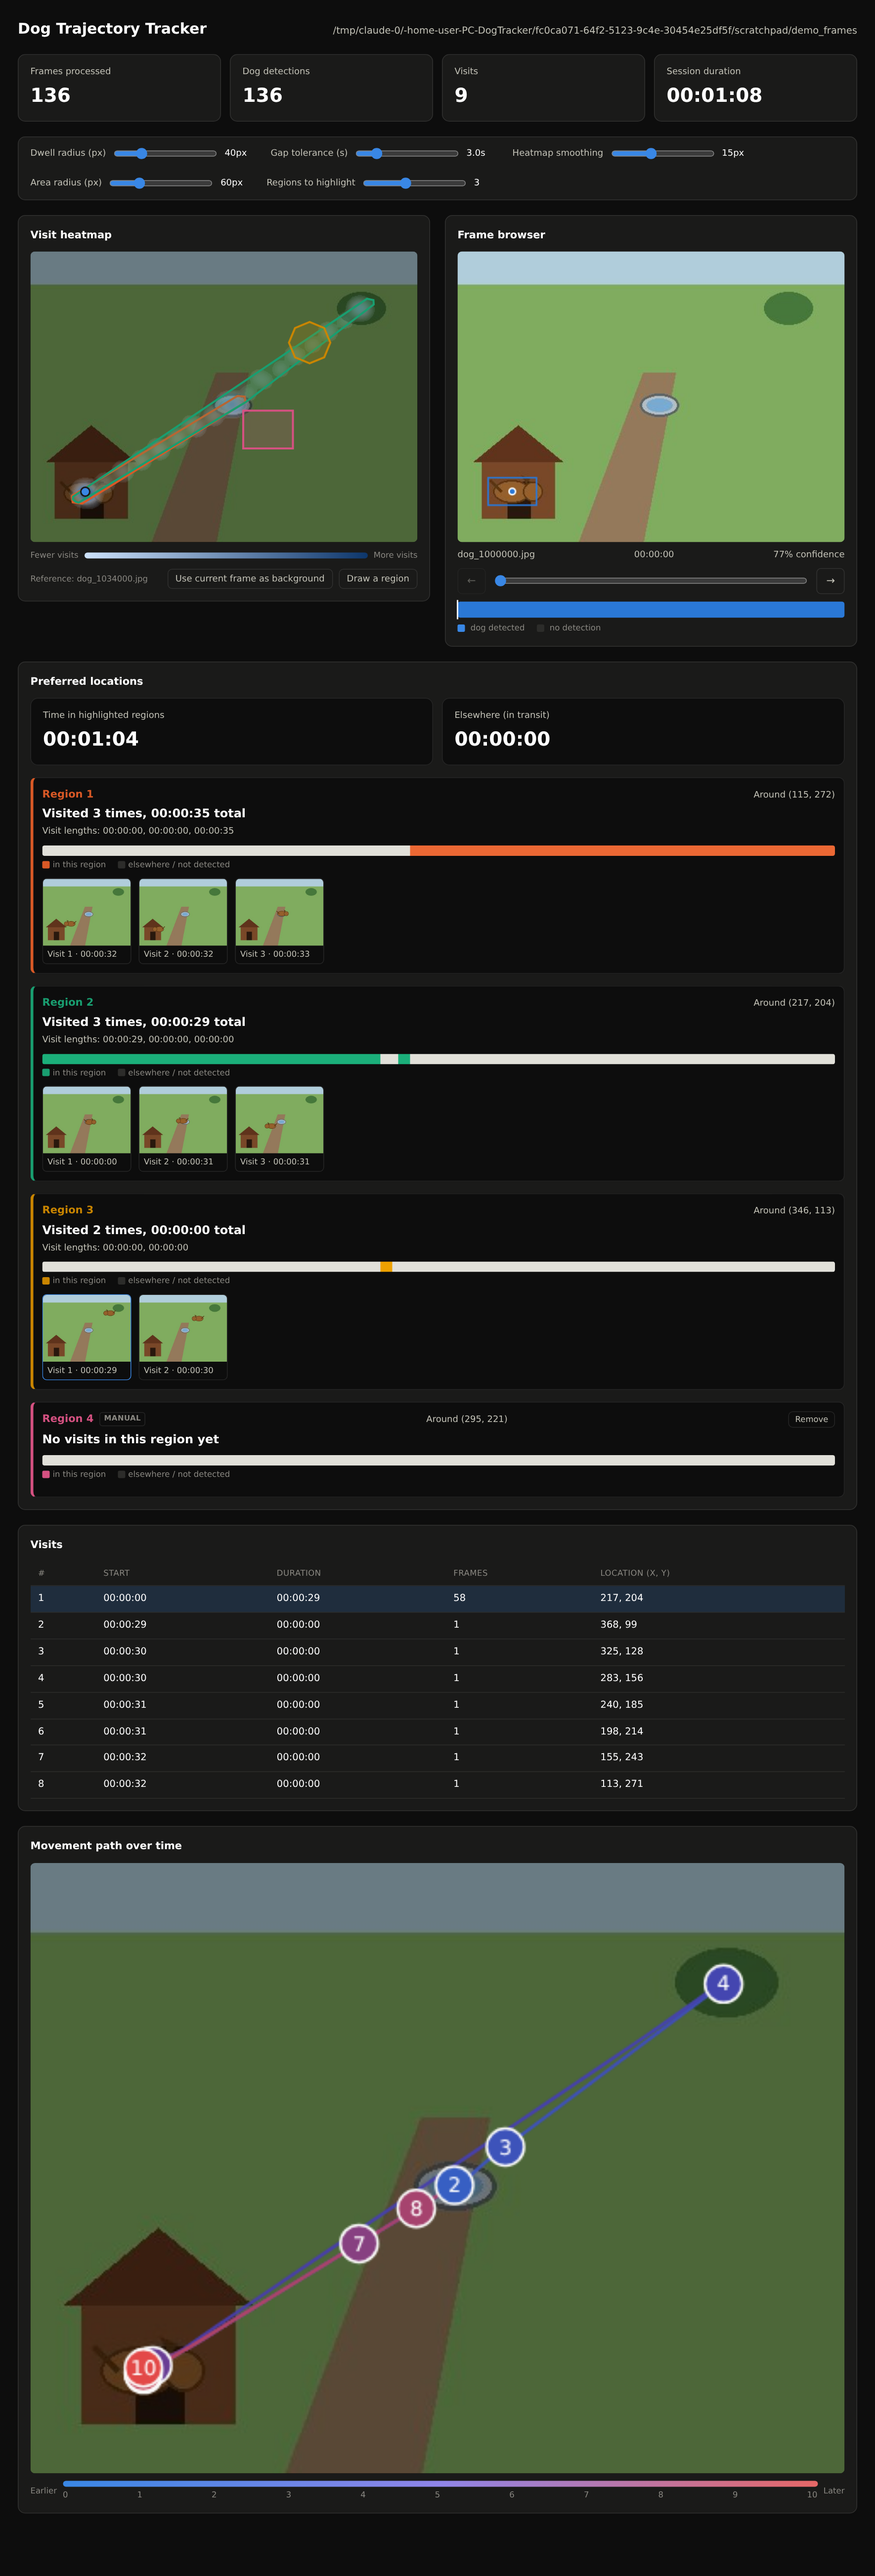
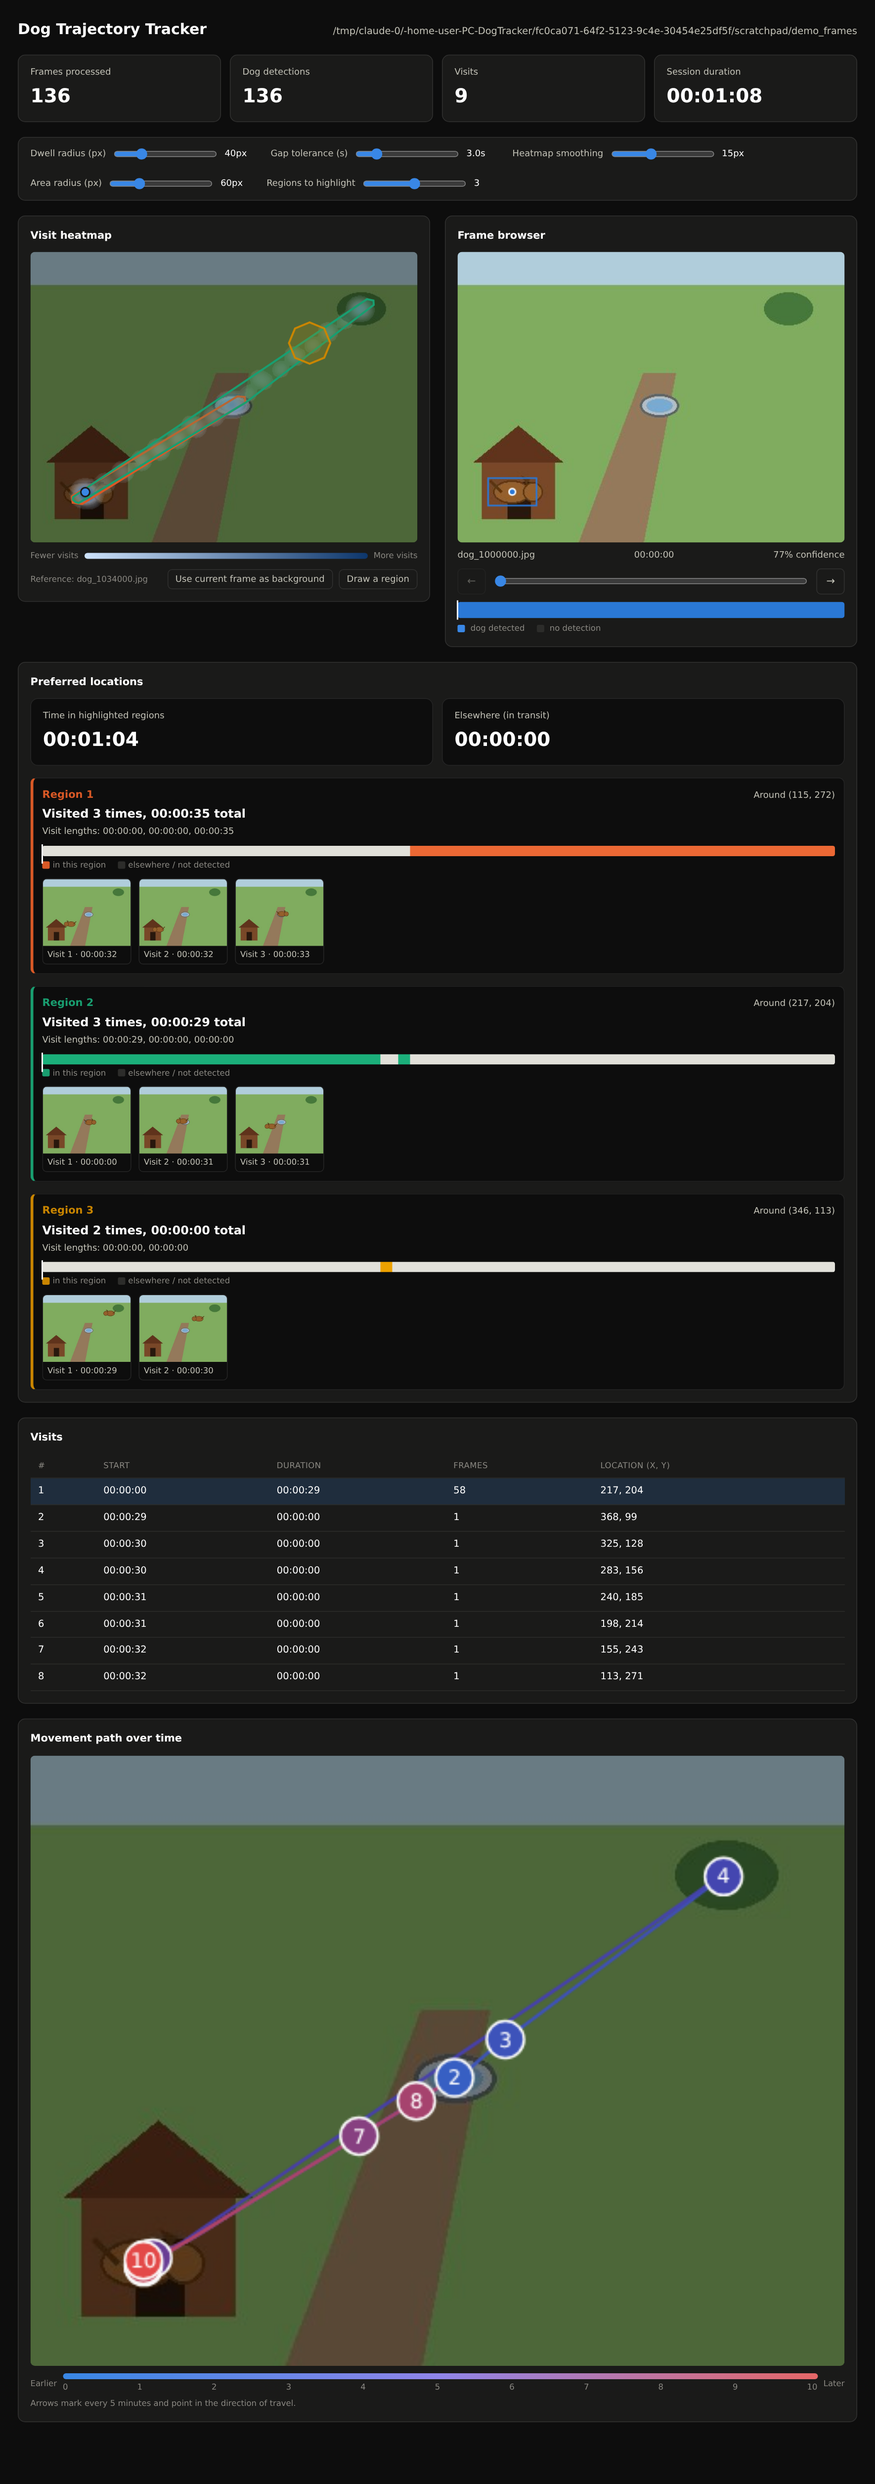
Allow 0 auto-regions, per-region current-frame marker, trajectory direction arrows
- "Regions to highlight" slider now goes down to 0 (manual-regions-only mode).
- Each region's mini presence ruler gets a current-frame marker line, same
  as the frame browser's own detection ruler, kept in sync via
  updateAreaRulerMarkers() alongside the existing updateRulerMarker().
- The movement-path map gains arrow-shaped ticks every 5 minutes of elapsed
  wall-clock time (independent of the existing 0-10 percentage badges),
  rotated to point in the direction of travel at that instant (computed
  from the path's tangent a couple seconds before/after).

Also fixed a minor DOM-hygiene issue found while testing 0-region mode:
the "Preferred locations" card correctly hides when nothing is highlighted,
but was leaving the previous render's region cards in the (hidden) DOM
instead of clearing them.

Changed region(s): [[0.0311, 0.0, 0.9633, 0.9686], [0.7147, 0.0, 0.8701, 0.0625], [0.2797, 0.0312, 0.3418, 0.0625]]

diff --git a/dogtracker_pc/static/app.js b/dogtracker_pc/static/app.js
@@ -178,6 +178,7 @@
       hideCurrentMarker();
     }
     updateRulerMarker();
+    updateAreaRulerMarkers();
     updateActiveVisitRow();
   }
 
@@ -326,10 +327,24 @@
     }
   }
 
+  function currentIndexFraction() {
+    const total = state.frames.length;
+    return total > 1 ? state.currentIndex / (total - 1) : 0;
+  }
+
   function updateRulerMarker() {
     const marker = el("rulerMarker");
-    const total = state.frames.length;
-    marker.style.left = total > 1 ? `${(state.currentIndex / (total - 1)) * 100}%` : "0%";
+    marker.style.left = `${currentIndexFraction() * 100}%`;
+  }
+
+  // Same idea as the main ruler's current-frame marker, mirrored onto every
+  // region's mini presence ruler so scrubbing the frame browser shows where
+  // "now" falls on each region's own timeline too.
+  function updateAreaRulerMarkers() {
+    const leftPct = `${currentIndexFraction() * 100}%`;
+    for (const marker of el("areaList").querySelectorAll(".area-ruler-marker")) {
+      marker.style.left = leftPct;
+    }
   }
 
   function setupRulerInteraction() {
@@ -647,7 +662,9 @@
       const frac = (event.clientX - rect.left) / rect.width;
       setCurrentIndex(Math.round(frac * (state.frames.length - 1)));
     });
-    rulerWrap.appendChild(rulerCanvas);
+    const rulerMarker = document.createElement("div");
+    rulerMarker.className = "ruler-marker area-ruler-marker";
+    rulerWrap.append(rulerCanvas, rulerMarker);
 
     const rulerLegend = document.createElement("div");
     rulerLegend.className = "ruler-legend";
@@ -693,6 +710,7 @@
     if (combined.length === 0) {
       card.hidden = true;
       state.currentHighlightedAreas = [];
+      el("areaList").replaceChildren();
       renderAreaOverlays([]);
       return;
     }
@@ -707,6 +725,7 @@
     state.currentHighlightedAreas = combined;
     el("areaList").replaceChildren(...combined.map(areaCard));
     redrawAreaRulers();
+    updateAreaRulerMarkers();
     renderAreaOverlays(combined);
   }
 
@@ -778,12 +797,43 @@
     return [dets[dets.length - 1].x, dets[dets.length - 1].y];
   }
 
+  const TRAJECTORY_ARROW_INTERVAL_MS = 5 * 60 * 1000;
+
+  // Direction of travel at a given elapsed-time fraction: the angle of the
+  // vector between a point shortly before and shortly after that instant
+  // (2s of session time on each side), not just the two nearest detections,
+  // so it stays stable even where detections are dense/jittery.
+  function directionAngleAtElapsedFraction(dets, frac, durationMs) {
+    const deltaFrac = durationMs > 0 ? 2000 / durationMs : 0;
+    const [x0, y0] = positionAtElapsedFraction(dets, Math.max(0, frac - deltaFrac));
+    const [x1, y1] = positionAtElapsedFraction(dets, Math.min(1, frac + deltaFrac));
+    return Math.atan2(y1 - y0, x1 - x0);
+  }
+
+  function drawDirectionArrow(ctx, x, y, angle, size, fillColor, ringColor) {
+    ctx.save();
+    ctx.translate(x, y);
+    ctx.rotate(angle);
+    ctx.beginPath();
+    ctx.moveTo(size, 0);
+    ctx.lineTo(-size * 0.6, size * 0.6);
+    ctx.lineTo(-size * 0.6, -size * 0.6);
+    ctx.closePath();
+    ctx.fillStyle = fillColor;
+    ctx.fill();
+    ctx.lineWidth = Math.max(1, size / 6);
+    ctx.strokeStyle = ringColor;
+    ctx.stroke();
+    ctx.restore();
+  }
+
   // The dog's full path, drawn as a Catmull-Rom spline through every
   // detection center in chronological order, colored along its length from
   // --traj-start (earliest) through --traj-mid to --traj-end (latest) so
   // "when" is readable directly off the line, not just "where". Numbered
   // badges 0-10 mark every 10% of elapsed session time, matching the ticks
-  // under the legend below.
+  // under the legend below; arrow ticks every 5 minutes of wall-clock time
+  // show the direction of travel at that instant.
   function renderTrajectory() {
     const card = el("trajectoryCard");
     const dets = state.detections;
@@ -869,6 +919,18 @@
       const luminance = 0.299 * r + 0.587 * g + 0.114 * b;
       ctx.fillStyle = luminance > 140 ? "#0b0b0b" : "#ffffff";
       ctx.fillText(String(k), x, y + 1);
+    }
+
+    // Direction-of-travel arrows every 5 minutes of elapsed wall-clock time
+    // (independent of the 0-10 badges above, which mark 10% steps).
+    const durationMs = state.summary.duration_ms || 0;
+    const arrowSize = Math.max(7, Math.round(frame_width / 55));
+    for (let ms = TRAJECTORY_ARROW_INTERVAL_MS; ms < durationMs; ms += TRAJECTORY_ARROW_INTERVAL_MS) {
+      const frac = ms / durationMs;
+      const [x, y] = positionAtElapsedFraction(dets, frac);
+      const angle = directionAngleAtElapsedFraction(dets, frac, durationMs);
+      const [r, g, b] = trajectoryColorAt(frac, stops);
+      drawDirectionArrow(ctx, x, y, angle, arrowSize, `rgb(${r}, ${g}, ${b})`, surface);
     }
   }
 

diff --git a/dogtracker_pc/static/style.css b/dogtracker_pc/static/style.css
@@ -268,6 +268,12 @@ header.top .folder {
   background: linear-gradient(to right, var(--traj-start), var(--traj-mid), var(--traj-end));
 }
 
+.trajectory-note {
+  margin-top: 6px;
+  font-size: 11px;
+  color: var(--text-muted);
+}
+
 .ramp-col {
   flex: 1;
   display: flex;
@@ -471,6 +477,7 @@ header.top .folder {
 }
 
 .area-ruler-wrap {
+  position: relative;
   margin: 8px 0 4px;
 }
 
@@ -480,6 +487,11 @@ header.top .folder {
   display: block;
   border-radius: 3px;
   cursor: pointer;
+}
+
+.area-ruler-marker {
+  top: -1px;
+  height: 16px;
 }
 
 .area-card .ruler-legend {

diff --git a/dogtracker_pc/static/index.html b/dogtracker_pc/static/index.html
@@ -39,7 +39,7 @@
     </div>
     <div class="filter-control">
       <label for="topNInput">Regions to highlight</label>
-      <input type="range" id="topNInput" min="1" max="6" step="1" />
+      <input type="range" id="topNInput" min="0" max="6" step="1" />
       <output id="topNOutput"></output>
     </div>
   </section>
@@ -148,6 +148,7 @@
         </div>
         <span>Later</span>
       </div>
+      <div class="trajectory-note">Arrows mark every 5 minutes and point in the direction of travel.</div>
     </div>
   </div>
 </div>

diff --git a/README.md b/README.md
@@ -31,18 +31,21 @@ footage -- generated for illustration purposes, see below.)*
   visual -- it doesn't block clicking on the heatmap underneath); manual
   ones carry a "manual" badge and a Remove button, and persist in
   `.dogtracker_cache/manual_regions.json` so they're still there next time
-  you open the same folder. Per region: how many times it was visited, the
-  length of every individual visit, the total time spent there, and its own
-  clickable **presence timeline** (in the region's color) showing exactly
-  when across the whole session the dog was there vs elsewhere. A summary
-  line splits total tracked time into "in a highlighted region" vs.
-  "elsewhere (in transit)" -- time spent moving between spots rather than
-  dwelling in one of them.
+  you open the same folder. "Regions to highlight" goes down to 0 if you'd
+  rather see only manually-drawn regions and no automatic ones. Per region:
+  how many times it was visited, the length of every individual visit, the
+  total time spent there, and its own clickable **presence timeline** (in
+  the region's color, with the same current-frame marker line the frame
+  browser's own ruler has) showing exactly when across the whole session
+  the dog was there vs elsewhere. A summary line splits total tracked time
+  into "in a highlighted region" vs. "elsewhere (in transit)" -- time spent
+  moving between spots rather than dwelling in one of them.
 - **Movement path over time** -- a smooth spline through every detected
   position in chronological order, colored gradually from one color (earlier)
   to another (later) by elapsed time, with numbered markers at every 10% of
-  the session so the dog's actual route -- not just where it stopped -- is
-  readable as a timeline.
+  the session and arrow ticks every 5 minutes pointing in the direction of
+  travel at that instant, so the dog's actual route -- not just where it
+  stopped -- is readable as a timeline.
 - **Frame browser** scrubs through every recorded frame, not just the ones
   with a detection -- frames with no dog show "No detection" instead of a
   box, so you can review the full sequence for continuity. A clickable
